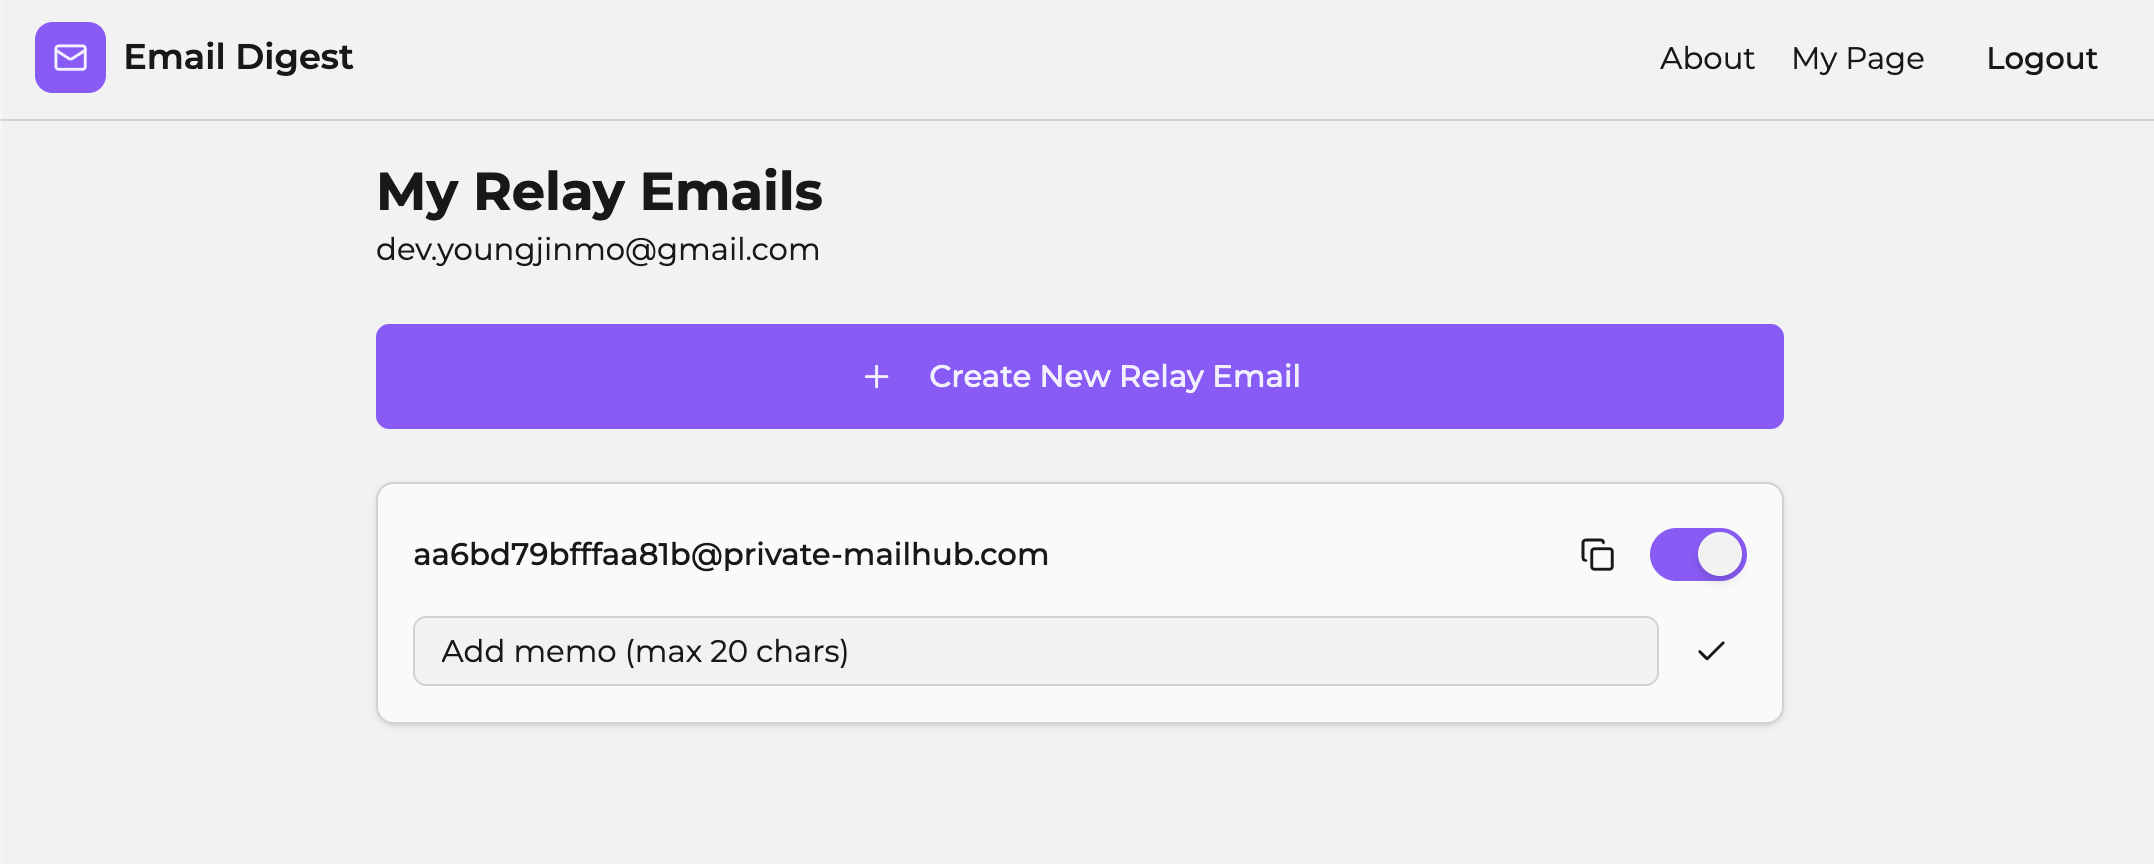
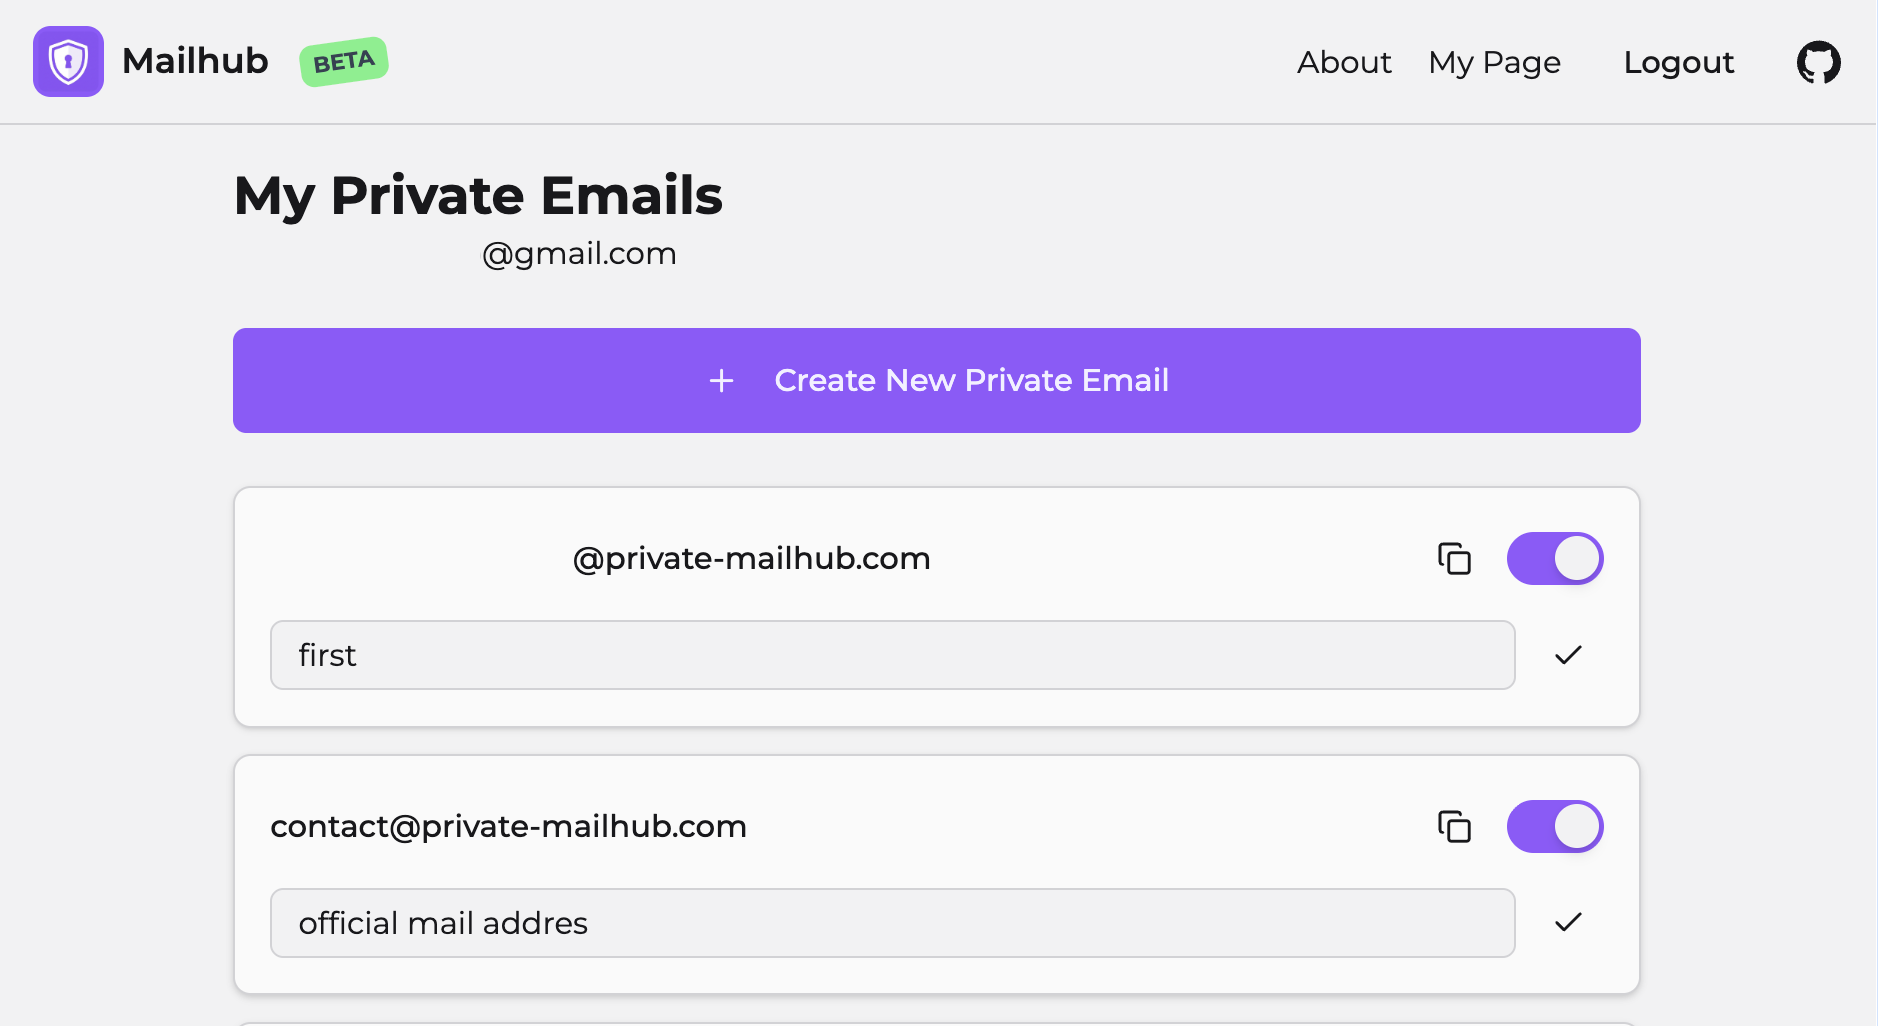
Update README.md

diff --git a/README.md b/README.md
@@ -1,8 +1,8 @@
-# Email Digest
+# Mailhub
+
+![](docs/main2.png)
 
 ![](docs/main.png)
-
-![](docs/forwarded.png)
 
 Protect your email from unsecured websites.
 
